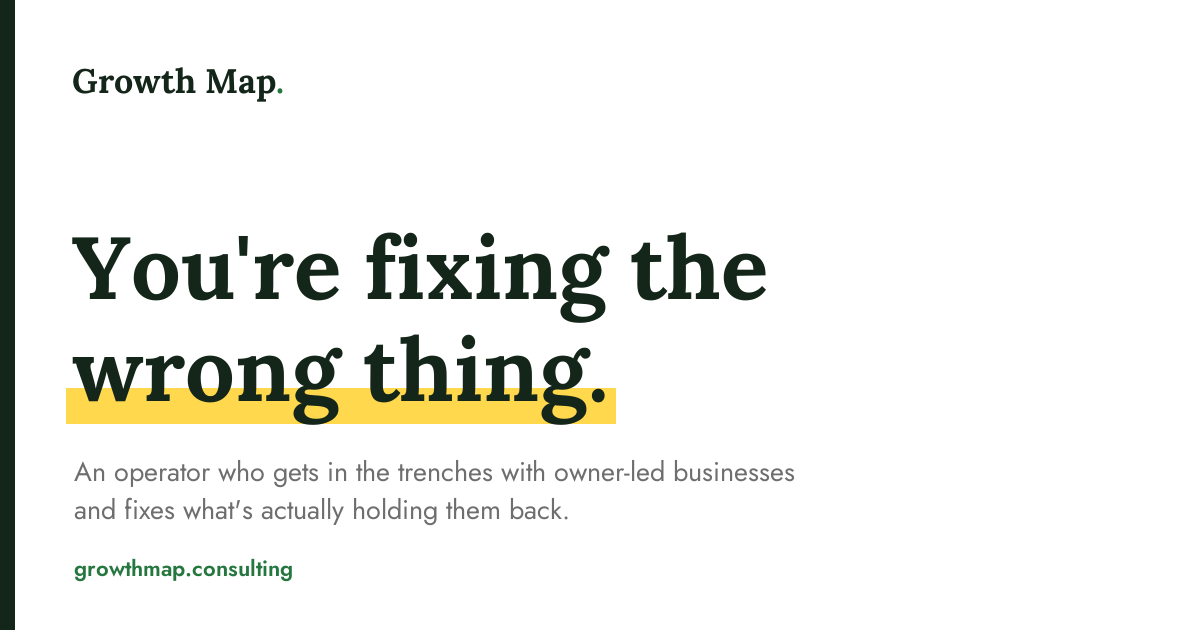
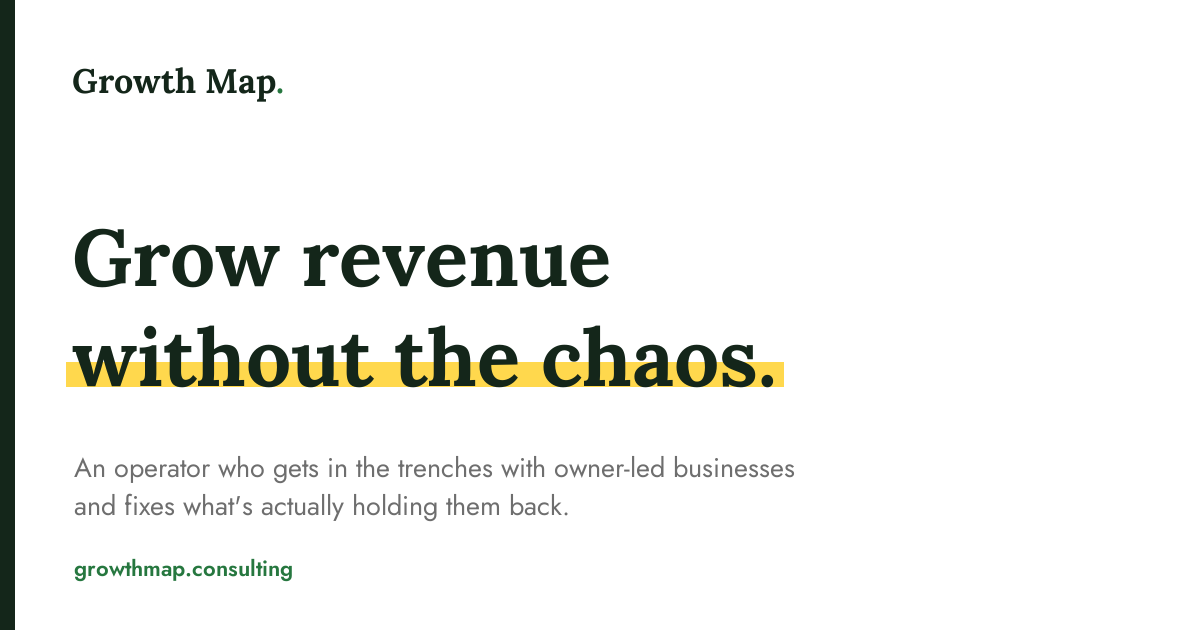
Homepage H1-H4: new hero, cohesive two-things section, cut long proof block
- H1: hero is now 'Grow revenue without the chaos'; 'you're fixing the wrong
  thing' demoted to the turn inside the problem section. Title, meta and OG
  image updated to match.
- H2: the two things are now bordered panels with large green numerals and an
  arrow between them, not flat cards.
- H3: the bridge line moved above the quotes where it does transition work, and
  'the bigger calls' pulled out of the three-column grid into its own beat, so
  the two-things model is no longer contradicted by a third bucket.
- H4: the long in-practice section is cut; one compact story sits before the
  final CTA instead.
- Marker highlight scoped to hero headlines only; other emphasis goes green.

Changed region(s): [[0.0308, 0.3619, 0.6783, 0.6937], [0.0617, 0.7238, 0.6783, 0.8444]]

diff --git a/src/styles/global.css b/src/styles/global.css
@@ -57,6 +57,11 @@ body {
 }
 .font-display em {
   font-style: normal;
+  color: var(--color-moss);
+}
+/* the highlighter is deliberate: hero headlines only, once per page */
+.font-display em.mark {
+  color: inherit;
   background: linear-gradient(transparent 62%, rgba(255, 216, 77, 0.55) 62%);
   padding: 0 0.06em;
 }
